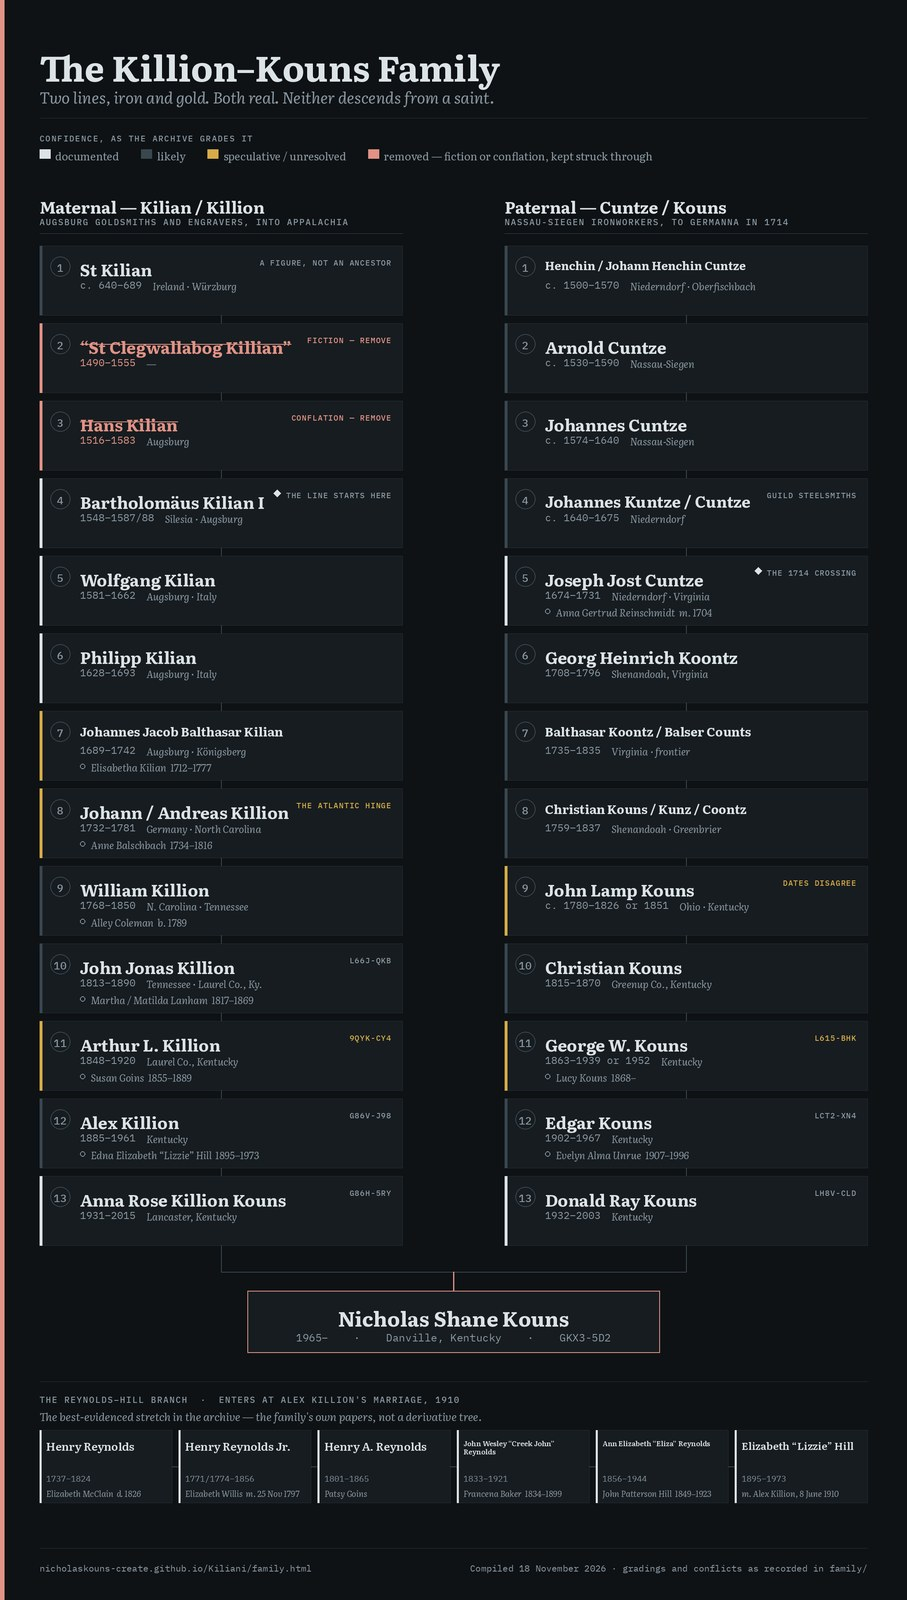
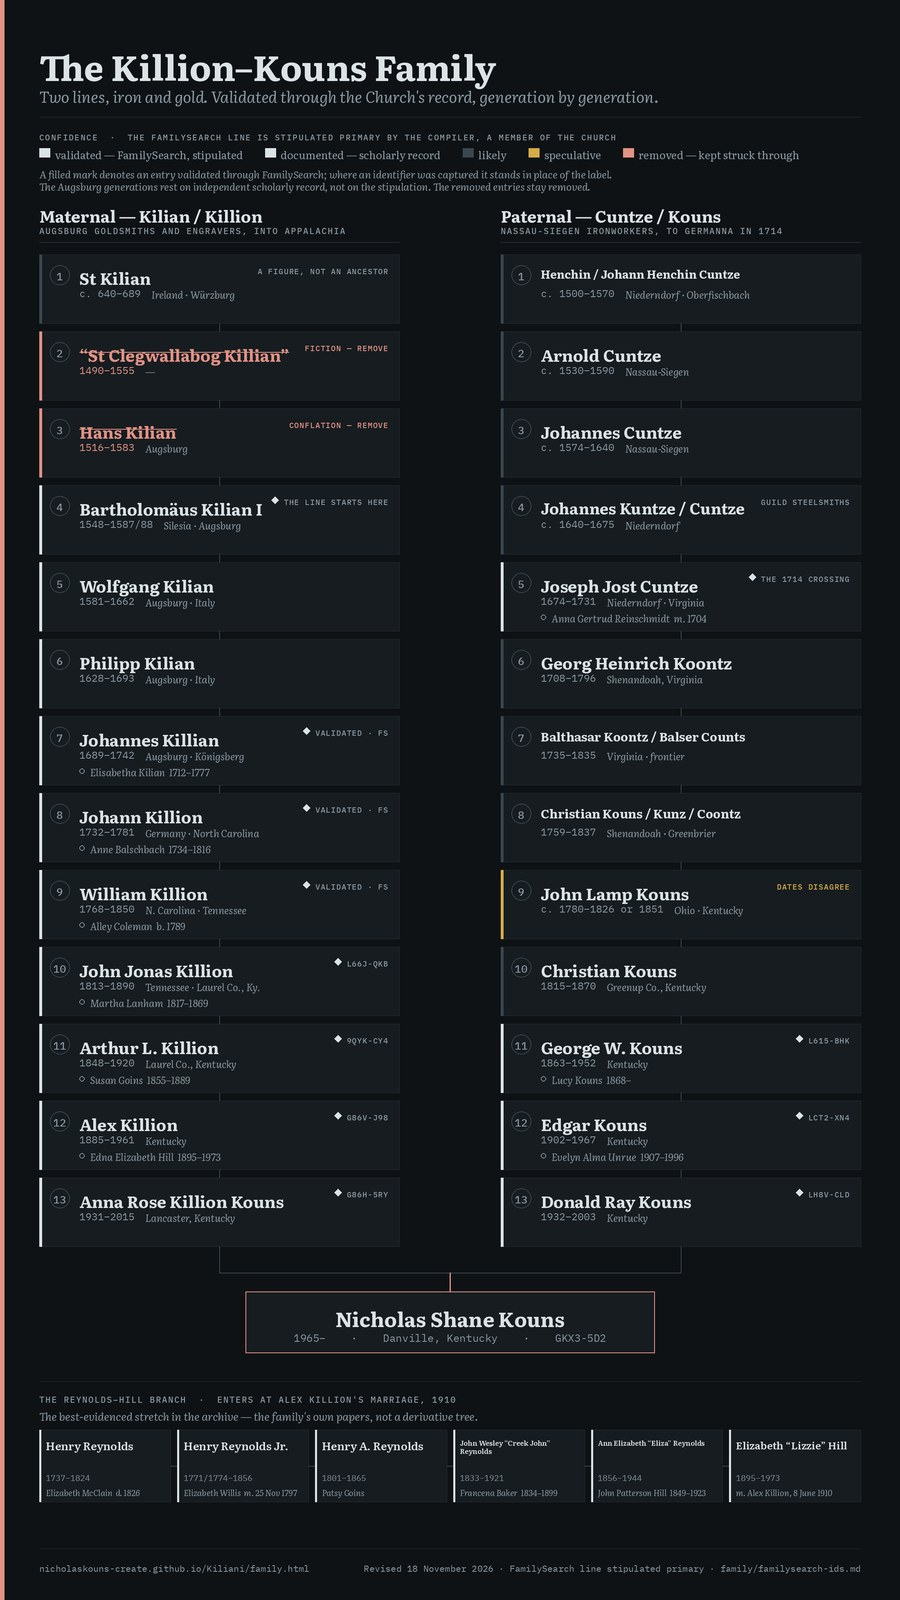
Stipulate the FamilySearch line as primary, and add the Church register
SOURCE STIPULATION. The compiler, a member of The Church of Jesus Christ
of Latter-day Saints, stipulates the FamilySearch Family Tree as primary
source for this family's line as it stands. Where this archive's earlier
working gradings disagree with it, the FamilySearch line governs.

Edna Elizabeth Hill stands. Martha Lanham stands. George W. Kouns
1863-1952 stands. The Atlantic hinge is closed. Those stop being live
disputes; the earlier readings are kept as superseded notes.

Scope: the stipulation covers the line FamilySearch records, which
begins at Johannes Killian (1689-1742). The Augsburg generations above
it rest on independent scholarly record and are unaffected. The two
removed entries stay removed, and the boundary on Saint Kilian is
untouched — it was never a FamilySearch question.

family/lds-church-history.md is new: four entries from the Church
History Biographical Database, which Church History Library researchers
built from company rosters, trail diaries and local Church records
rather than from user-submitted trees.

  - Susan Coons married Jacob Killian, Joel Edmunds Company, 1852, and
    the database records that the surname on the roster is "Killion"
    for both. Both of this archive's surnames in one marriage, a century
    before Anna Rose Killion married Donald Ray Kouns
  - Eleanor Kouns, mother of a Mormon Battalion private born 1827 in
    Kanawha, Virginia — the Greenbrier country where Christian Kouns
    settled
[…]

diff --git a/docs/family.html b/docs/family.html
@@ -109,6 +109,27 @@
 </section>
 
 <section class="col">
+  <h2>Source stipulation</h2>
+  <div class="good">
+    <p class="lbl">Declared by the compiler</p>
+    <p><strong>Nicholas Shane Kouns is a member of The Church of Jesus Christ of
+       Latter-day Saints, and stipulates the FamilySearch Family Tree as primary
+       source for this family's line as it stands.</strong></p>
+    <p>Where this archive's earlier working gradings disagree with it, the
+       FamilySearch line governs. <strong>Edna Elizabeth Hill</strong> stands.
+       <strong>Martha Lanham</strong> stands. <strong>George W. Kouns, 1863–1952</strong>
+       stands. The Atlantic hinge is closed. Those entries are no longer live disputes;
+       the earlier readings are kept as superseded notes rather than as open questions.</p>
+    <p style="font-size:.92rem;color:var(--muted)">Scope. The stipulation covers the
+       line FamilySearch records, which begins at Johannes Killian (1689–1742). The
+       Augsburg generations above it — Bartholomäus, Wolfgang, Philipp — rest on
+       independent scholarly record and are unaffected. The two removed entries stay
+       removed, and the boundary on Saint Kilian is untouched: it was never a
+       FamilySearch question.</p>
+  </div>
+</section>
+
+<section class="col">
   <h2>Confidence labels</h2>
   <p>Used identically everywhere in this record.</p>
   <div class="scroll"><table>
@@ -226,6 +247,32 @@
      the better source where the two disagree.</p>
 </section>
 
+<section class="col">
+  <h2>The Church's own register</h2>
+  <p>The <strong>Church History Biographical Database</strong> is a different class of
+     source from a family tree: it was built by Church History Library researchers from
+     company rosters, trail diaries, local Church records and other contemporary
+     documents, and it covers more than 61,000 pioneers and 44,000 missionaries. Four
+     entries in it carry this family's surnames —
+     <a href="https://github.com/nicholaskouns-create/Kiliani/blob/main/family/lds-church-history.md">all
+     four, with their record identifiers →</a></p>
+  <div class="scroll"><table>
+    <thead><tr><th>Entry</th><th>What it records</th></tr></thead>
+    <tbody>
+      <tr><td><strong>Susan Coons × Jacob Killian</strong><br>Joel Edmunds Company, 1852</td><td>Her birth name is <strong>Coons</strong>; the database notes that <strong>the surname on the roster is "Killion"</strong> for both of them. Both of this archive's surnames, in one marriage, a century before Anna Rose Killion married Donald Ray Kouns</td></tr>
+      <tr><td><strong>Eleanor Kouns</strong><br>Mormon Battalion generation</td><td>Mother of William Cook Prows, born 1827 in <strong>Kanawha, Virginia</strong> — the Greenbrier country where this archive places Christian Kouns</td></tr>
+      <tr><td><strong>John Killian, 1796–1858</strong><br>Elder, North America Mission</td><td>Born <strong>Lincoln County, North Carolina</strong> — the German Kilian settlement of Andreas Killian, who came from Germany in 1732. The same county and decade where this archive's American maternal line begins</td></tr>
+      <tr><td><strong>The Thomas Killian family</strong><br>to Utah, 1851</td><td>Ordinance records prove the journey; the company is still unidentified. The mother appears as <em>Miriam Elizabeth Demaris</em> on one entry and <em>Sampson</em> on another — a conflict inside the register itself, logged not reconciled</td></tr>
+    </tbody>
+  </table></div>
+  <p class="col" style="font-size:.9rem;color:var(--muted)">These are surname matches
+     in a records-based register. <strong>None is yet tied to this line.</strong> They
+     are filed because three of the four land on the right surname, region and decade,
+     and because the rosters that would settle them can be named: the Joel Edmunds
+     Company roster for 1852, the Lincoln County records for Philip Killian's household,
+     and the Kanawha County records for Eleanor Kouns's parentage.</p>
+</section>
+
 <section>
   <h2>The plates, as issued</h2>
   <p class="col">The family's own charts, kept exactly as they were made. They are not
@@ -242,7 +289,7 @@
     <p>Both lines side by side, the Reynolds–Hill branch beneath, converging. Confidence
        is drawn rather than described: a coloured spine and a mono label on every card.
        The two removed entries are kept and struck through, because a chart that hides
-       its corrections is worth less than one that shows them. Drawn 18 November 2026 by
+       its corrections is worth less than one that shows them. Revised 18 November 2026 under the stipulation above, by
        <code>tools/make_family_plate.py</code>, so it regenerates when a verdict changes.</p>
   </div>
 

diff --git a/tools/make_family_plate.py b/tools/make_family_plate.py
@@ -20,6 +20,7 @@ RULE="#263037"; RULE_STRONG="#3A474F"; SIGLUM="#E29286"; OPEN="#D7AC48"
 
 # grading -> (spine colour, label, label colour)
 G = {
+ "val":  (INK,     "VALIDATED",   INK),
  "doc":  (INK,     "DOCUMENTED",  INK),
  "star": (INK,     "",            INK),
  "lik":  (RULE_STRONG, "LIKELY",  MUTED),
@@ -36,19 +37,19 @@ MATERNAL = [
  ("star", "Bartholomäus Kilian I", "1548–1587/88", "Silesia · Augsburg", "", "THE LINE STARTS HERE"),
  ("doc",  "Wolfgang Kilian", "1581–1662", "Augsburg · Italy", "", ""),
  ("doc",  "Philipp Kilian", "1628–1693", "Augsburg · Italy", "", ""),
- ("spec", "Johannes Jacob Balthasar Kilian", "1689–1742", "Augsburg · Königsberg",
-          "Elisabetha Kilian  1712–1777", ""),
- ("unres","Johann / Andreas Killion", "1732–1781", "Germany · North Carolina",
-          "Anne Balschbach  1734–1816", "THE ATLANTIC HINGE"),
- ("lik",  "William Killion", "1768–1850", "N. Carolina · Tennessee",
-          "Alley Coleman  b. 1789", ""),
- ("lik",  "John Jonas Killion", "1813–1890", "Tennessee · Laurel Co., Ky.",
-          "Martha / Matilda Lanham  1817–1869", "L66J-QKB"),
- ("spec", "Arthur L. Killion", "1848–1920", "Laurel Co., Kentucky",
+ ("val",  "Johannes Killian", "1689–1742", "Augsburg · Königsberg",
+          "Elisabetha Kilian  1712–1777", "VALIDATED · FS"),
+ ("val",  "Johann Killion", "1732–1781", "Germany · North Carolina",
+          "Anne Balschbach  1734–1816", "VALIDATED · FS"),
+ ("val",  "William Killion", "1768–1850", "N. Carolina · Tennessee",
+          "Alley Coleman  b. 1789", "VALIDATED · FS"),
+ ("val",  "John Jonas Killion", "1813–1890", "Tennessee · Laurel Co., Ky.",
+          "Martha Lanham  1817–1869", "L66J-QKB"),
+ ("val",  "Arthur L. Killion", "1848–1920", "Laurel Co., Kentucky",
           "Susan Goins  1855–1889", "9QYK-CY4"),
- ("lik",  "Alex Killion", "1885–1961", "Kentucky",
-          "Edna Elizabeth “Lizzie” Hill  1895–1973", "G86V-J98"),
- ("doc",  "Anna Rose Killion Kouns", "1931–2015", "Lancaster, Kentucky", "", "G86H-5RY"),
+ ("val",  "Alex Killion", "1885–1961", "Kentucky",
+          "Edna Elizabeth Hill  1895–1973", "G86V-J98"),
+ ("val",  "Anna Rose Killion Kouns", "1931–2015", "Lancaster, Kentucky", "", "G86H-5RY"),
 ]
 
 PATERNAL = [
@@ -63,11 +64,11 @@ PATERNAL = [
  ("lik",  "Christian Kouns / Kunz / Coontz", "1759–1837", "Shenandoah · Greenbrier", "", ""),
  ("spec", "John Lamp Kouns", "c. 1780–1826 or 1851", "Ohio · Kentucky", "", "DATES DISAGREE"),
  ("lik",  "Christian Kouns", "1815–1870", "Greenup Co., Kentucky", "", ""),
- ("unres","George W. Kouns", "1863–1939 or 1952", "Kentucky",
+ ("val",  "George W. Kouns", "1863–1952", "Kentucky",
           "Lucy Kouns  1868–", "L615-BHK"),
- ("lik",  "Edgar Kouns", "1902–1967", "Kentucky",
+ ("val",  "Edgar Kouns", "1902–1967", "Kentucky",
           "Evelyn Alma Unrue  1907–1996", "LCT2-XN4"),
- ("doc",  "Donald Ray Kouns", "1932–2003", "Kentucky", "", "LH8V-CLD"),
+ ("val",  "Donald Ray Kouns", "1932–2003", "Kentucky", "", "LH8V-CLD"),
 ]
 
 REYNOLDS = [
@@ -79,7 +80,7 @@ REYNOLDS = [
  ("Elizabeth “Lizzie” Hill", "1895–1973", "m. Alex Killion, 8 June 1910"),
 ]
 
-W, H = 2200, 3880
+W, H = 2200, 3910
 M = 96
 COLW = 880
 GUT = W - 2*M - 2*COLW
@@ -133,17 +134,17 @@ def card(d, x, y, w, rec, idx):
         nc = OPEN if grade in ("spec", "unres") else (SIGLUM if grade == "rm" else MUTED)
         tw = d.textlength(note, font=lf) + len(note)*1.4
         nx = x + w - 26 - tw
-        if grade == "star":
+        if grade in ("star", "val"):
             cy0 = y + 36
             d.polygon([(nx - 30, cy0), (nx - 21, cy0 - 9), (nx - 12, cy0), (nx - 21, cy0 + 9)], fill=INK)
         track(d, (nx, y + 28), note, lf, nc, sp=1.4)
 
 def column(d, x, rows, title, sub):
     tf = lit(40, "700")
-    d.text((x, 470), title, font=tf, fill=INK)
-    track(d, (x, 524), sub.upper(), mono(21, True), MUTED, sp=2.4)
-    d.line([(x, 566), (x + COLW, 566)], fill=RULE_STRONG, width=1)
-    y = 596
+    d.text((x, 496), title, font=tf, fill=INK)
+    track(d, (x, 550), sub.upper(), mono(21, True), MUTED, sp=2.4)
+    d.line([(x, 592), (x + COLW, 592)], fill=RULE_STRONG, width=1)
+    y = 622
     for i, rec in enumerate(rows, 1):
         card(d, x, y, COLW, rec, i)
         y += CARD_H + GAP
@@ -158,21 +159,28 @@ def build():
 
     # masthead
     d.text((M, 96), "The Killion–Kouns Family", font=lit(86, "700"), fill=INK)
-    d.text((M, 206), "Two lines, iron and gold. Both real. Neither descends from a saint.",
+    d.text((M, 206), "Two lines, iron and gold. Validated through the Church's record, generation by generation.",
            font=lit_i(38), fill=MUTED)
     d.line([(M, 286), (W - M, 286)], fill=RULE, width=1)
 
     # legend
     lx, ly = M, 322
-    track(d, (lx, ly), "CONFIDENCE, AS THE ARCHIVE GRADES IT", mono(20, True), MUTED, sp=2.4)
-    items = [(INK, "documented"), (RULE_STRONG, "likely"), (OPEN, "speculative / unresolved"),
-             (SIGLUM, "removed — fiction or conflation, kept struck through")]
+    track(d, (lx, ly), "CONFIDENCE  ·  THE FAMILYSEARCH LINE IS STIPULATED PRIMARY BY THE COMPILER, A MEMBER OF THE CHURCH", mono(20, True), MUTED, sp=2.4)
+    items = [(INK, "validated — FamilySearch, stipulated"), (INK, "documented — scholarly record"),
+             (RULE_STRONG, "likely"), (OPEN, "speculative"),
+             (SIGLUM, "removed — kept struck through")]
     x = lx
     for colr, lab in items:
         d.rectangle([x, ly + 40, x + 26, ly + 62], fill=colr)
         f = lit(26)
         d.text((x + 38, ly + 36), lab, font=f, fill=MUTED)
         x += 38 + d.textlength(lab, font=f) + 54
+
+    nf = lit_i(25)
+    d.text((M, ly + 84), "A filled mark denotes an entry validated through FamilySearch; "
+           "where an identifier was captured it stands in place of the label.", font=nf, fill=MUTED)
+    d.text((M, ly + 114), "The Augsburg generations rest on independent scholarly record, "
+           "not on the stipulation. The removed entries stay removed.", font=nf, fill=MUTED)
 
     ymat = column(d, M, MATERNAL, "Maternal — Kilian / Killion",
                   "Augsburg goldsmiths and engravers, into Appalachia")
@@ -232,7 +240,7 @@ def build():
     d.line([(M, fy - 34), (W - M, fy - 34)], fill=RULE, width=1)
     ff = mono(22)
     d.text((M, fy), "nicholaskouns-create.github.io/Kiliani/family.html", font=ff, fill=MUTED)
-    t = "Compiled 18 November 2026 · gradings and conflicts as recorded in family/"
+    t = "Revised 18 November 2026 · FamilySearch line stipulated primary · family/familysearch-ids.md"
     d.text((W - M - d.textlength(t, font=ff), fy), t, font=ff, fill=MUTED)
 
     out = pathlib.Path("family/plates/killion-kouns-full-tree.png")

diff --git a/family/lds-church-history.md b/family/lds-church-history.md
@@ -1,0 +1,132 @@
+# The Church History Biographical Database
+
+Four entries carrying this family's surnames, from the Church's own register.
+
+## What this source is
+
+The Church History Biographical Database is maintained by the Church History
+Department of The Church of Jesus Christ of Latter-day Saints. It holds biographical
+entries on over 100,000 early Latter-day Saints: more than 61,000 pioneers who
+travelled to Salt Lake City between 1847 and 1868, 44,000 missionaries who served
+between 1830 and 1940, Mormon Battalion participants, and Church leadership. It was
+formed in 2022 by merging the Pioneer Database and the Missionary Database.
+
+**It is records-based.** Church History Library researchers built it by examining
+company rosters, trail diaries, autobiographies, newspaper articles, local Church
+records and other then-contemporary sources. That makes it a different class of
+source from a user-edited tree: the entries derive from rosters, and the database
+says where its readings come from — including where a roster spells a name
+differently from the profile.
+
+Entries are addressed by a permanent `RID`.
+
+---
+
+## 1. Susan Coons, who married a Killion — 1852
+
+**The find.** Both of this family's surnames appear in one marriage, on one roster,
+a century before Anna Rose Killion married Donald Ray Kouns.
+
+| | |
+|---|---|
+| **Susan Killian**, birth name **Susan Coons** | b. 1 Feb 1838, d. 15 Sept 1920 |
+| **Jacob Killian** | b. 31 Dec 1828, d. 14 Aug 1901 |
+| Company | **Joel Edmunds Company**, 10 June – 8 Sept 1852 |
+
+The database records, for both of them, that **the surname on the roster is
+"Killion"** — not Killian. The register is explicit that the contemporary document
+and the profile heading disagree, and it preserves both.
+
+**Why it matters here.** This archive already carries *Coons* as a form of the
+paternal surname: Christian Kouns / Kunz / **Coontz** (1759–1837), and Balthasar
+Koontz / Balser **Counts** (1735–1835). A Coons marrying a Killion, with *Killion*
+the spelling on the 1852 roster, is the two lines of this archive meeting in the
+Church's own record.
+
+**Not yet a claim of kinship.** Nothing here links Susan Coons or Jacob Killian to
+this family. The surnames, the spellings and the period are right; the connection is
+unproven.
+
+## 2. Eleanor Kouns — Mormon Battalion generation
+
+**William Cook Prows**, b. 11 June 1827 in **Kanawha, Virginia**; father Thomas
+Prows III, mother **Eleanor Kouns**. Appointed Private, **Mormon Battalion Company
+B**, 16 July 1846 – 16 July 1847.
+
+Kanawha sits in the Greenbrier country where this archive places **Christian Kouns
+(1759–1837)**, who moved Shenandoah → Greenbrier. Right surname, right region, right
+generation for a daughter of that family. Unproven.
+
+## 3. John Killian, 1796–1858 — missionary, out of Lincoln County
+
+`RID PER-9XS7DXJ`
+
+| | |
+|---|---|
+| Born | 25 April 1796, **Lincoln County, North Carolina** |
+| Died | 10 November 1858 |
+| Mother | Mary Haskins |
+| Residence when called | **Kirtland, Ohio** |
+| Priesthood office | Elder |
+| Served | Illinois — North America Mission, 28 January 1845 (age 48) |
+
+The FamilySearch profile for the same man (`KWVQ-326`) gives his father as **Philip
+Killian**, mother as Mary Hoskings, has him moving to Missouri after the War of 1812
+and marrying Mrs. Lydia Hopper Conley in 1818 in Howard County, Missouri.
+
+**Lincoln County, North Carolina is the German Kilian settlement** — the country of
+**Andreas Killian (1702–1788)**, who came to America from Germany in 1732 and whose
+name in Germany was *Kilian*. This archive's **William Killion (1768–1850)** is
+placed in North Carolina in that same milieu before moving to Tennessee.
+
+This is the most promising lead in the file: it puts a documented Killian family of
+German origin in the exact county and decade where this archive's American maternal
+line begins. **It does not yet connect to William.**
+
+## 4. The Thomas Killian family — to Utah, 1851
+
+| Person | Age in 1851 |
+|---|---|
+| **Thomas Killian** | 30 |
+| **Miriam Elizabeth Demaris** *or* **Sampson** — see below | 27 |
+| **James Laman Killian** | 4 |
+| **Andrew W Killian** | 2 |
+| **Lydia Ann Killian** | 0 |
+
+**Andrew W Killian** — b. 12 Feb 1848, **Lafayette, Missouri**; d. 25 April 1916, Annis.
+**Lydia Ann Killian** — `RID PER-VLHPC33`, b. 18 Oct 1850; d. 26 Nov 1933.
+
+The database states: *evidence from genealogical and church ordinance records proves
+the Killian family travelled to Utah in 1851*, and that **further research is needed
+to determine the name of the company they travelled with** — an open question the
+register marks on itself.
+
+### A conflict inside the database
+
+The mother is given as **Miriam Elizabeth Demaris** on Andrew's entry and **Miriam
+Elizabeth Sampson** on Lydia Ann's. One woman, two surnames, in the same database,
+in the same travelling group.
+
+Recorded here on the same principle as every other conflict in this archive: noted,
+not reconciled, because picking a winner without a source would be inventing the
+answer.
+
+---
+
+## Standing
+
+All four are **surname matches in a records-based Church register**. None is yet
+tied to this family's line. They are filed because the database is built from
+rosters and ordinance records rather than from user-submitted trees, and because
+three of them land in the right surname, region and decade:
+
+| Entry | Lands on |
+|---|---|
+| Susan Coons × Jacob Killion, 1852 | both of this archive's surnames, one marriage |
+| Eleanor Kouns | Kanawha / Greenbrier, where Christian Kouns settled |
+| John Killian, 1796 | Lincoln Co., N.C. — where William Killion's generation begins |
+| Thomas Killian family, 1851 | Missouri → Utah; no overlap with this line yet |
+
+**To settle any of them:** the Joel Edmunds Company roster for 1852, the Lincoln
+County, North Carolina records for Philip Killian's household, and the Kanawha County
+records for Eleanor Kouns's parentage.
